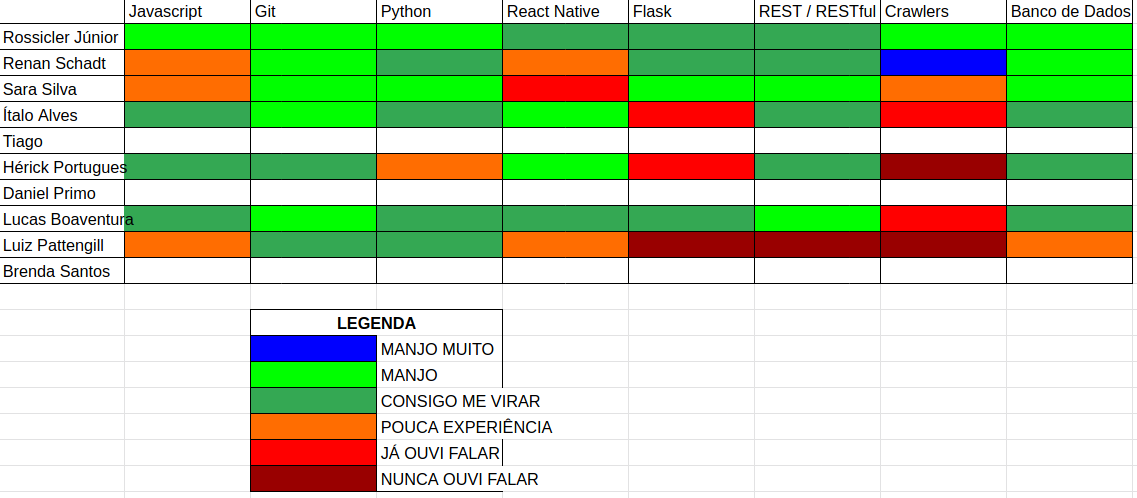
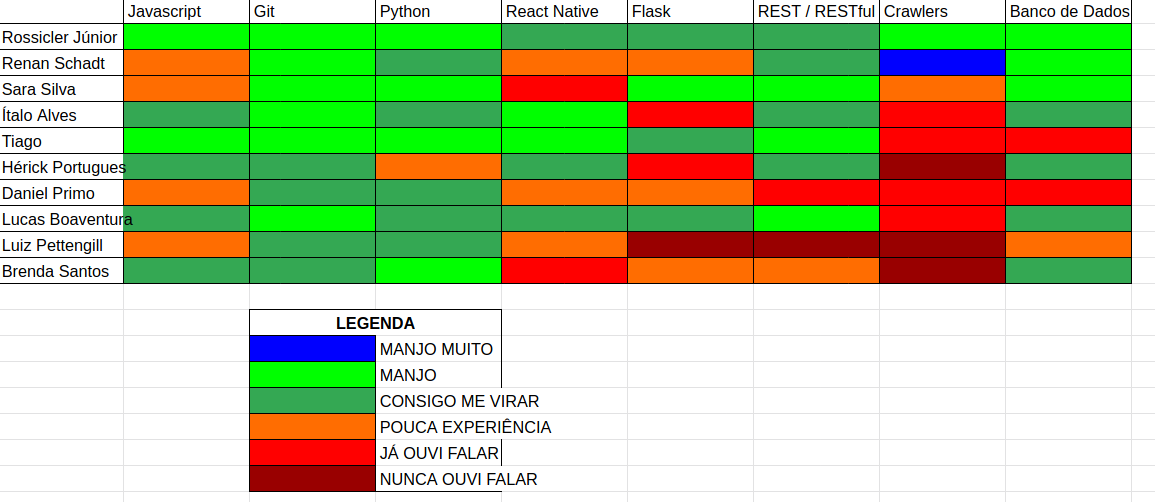
Added scrum master review and images for the metrics.

diff --git a/stay-safe/docs/sprints/sprint-1/sprint1-review.md b/stay-safe/docs/sprints/sprint-1/sprint1-review.md
@@ -1,12 +1,13 @@
 # Análise e Retrospectiva
 
 ## 1. Visão Geral
-**Número da Sprint:** 0  
-**Data de Início:** 18/08/2020  
-**Data de Término:** 22/08/2020  
-**Duração:** 4 dias  
-**Pontos Planejados:** 35 pontos  
-**Pontos Entregues:** 27 pontos  
+**Número da Sprint:** 1  
+**Data de Início:** 23/08/2020  
+**Data de Término:** 29/08/2020  
+**Duração:** 7 dias  
+**Pontos Planejados:** 68 pontos  
+**Pontos Entregues:** 60 pontos  
+**Dívida Técnica:** 8 pontos  
 **Membros Presentes:** Todos
 
 ## 2. Resultados
@@ -20,7 +21,7 @@
 **Status:** Concluído  
 3. **História:** [#11 - Definição de Arquitetura](https://github.com/fga-eps-mds/2020.1-stay-safe-docs/issues/11)  
 **Responsáveis:** Sara   
-**Pontuação:** 8 
+**Pontuação:** 8  
 **Status:** Concluído   
 4. **História:** [#12 - Treinamento de Flask](https://github.com/fga-eps-mds/2020.1-stay-safe-docs/issues/12)  
 **Responsáveis:** Sara  
@@ -32,44 +33,48 @@
 **Status:** Concluído  
 6. **História:** [#15 - Definição da Licença](https://github.com/fga-eps-mds/2020.1-stay-safe-docs/issues/15)  
 **Responsáveis:** Renan, Rossicler, Sara    
-**Pontuação:** 2
+**Pontuação:** 2  
 **Status:** Concluído  
 7. **História:** [#16 - Criação do Product Backlog](https://github.com/fga-eps-mds/2020.1-stay-safe-docs/issues/16)  
 **Responsáveis:** Renan, Rossicler, Sara   
-**Pontuação:** 13
+**Pontuação:** 13  
 **Status:** Concluído  
 8. **História:** [#17 - Termo de Abertura do Projeto](https://github.com/fga-eps-mds/2020.1-stay-safe-docs/issues/17)  
 **Responsáveis:** Renan, Rossicler, Sara     
-**Pontuação:** 8
+**Pontuação:** 8  
 **Status:** Não Concluído  
 9. **História:** [#18 - Documentação de Sprints](https://github.com/fga-eps-mds/2020.1-stay-safe-docs/issues/18)  
 **Responsáveis:** Renan     
-**Pontuação:** 3
+**Pontuação:** 3  
 **Status:** Concluído  
 10. **História:** [#19 - Documento de Arquitetura](https://github.com/fga-eps-mds/2020.1-stay-safe-docs/issues/19)  
 **Responsáveis:** Lucas, Brenda, Luiz, Tiago, Hérick  
-**Pontuação:** 8
+**Pontuação:** 8  
 **Status:** Concluído 
 
 ## 3. Velocity
-![Velocity Sprint 0](../../images/sprints/sprint-0/Velocity-Sprint0.png "Velocity Sprint 0")
+![Velocity Sprint 1](../../images/sprints/sprint-1/Velocity-Sprint1.png "Velocity Sprint 1")
 
 ## 4. Burndown
-![Burndown Sprint 0](../../images/sprints/sprint-0/Burndown-Sprint0.png "Burndown Sprint 0")
+![Burndown Sprint 1](../../images/sprints/sprint-1/Burndown-Sprint1.png "Burndown Sprint 1")
 
-## 5. Retrospectiva
+## 5. Histórico de Contribuição
+![Commit History Sprint 1](../../images/sprints/sprint-1/Commit-Sprint1.png "Commit History Sprint 1")
+
+## 6. Retrospectiva
 ### Pontos Positivos:
-* Uma sprint bem produtiva
-* Hilmer nos elogiou
-* A interação do grupo está muito boa e cumprimos quase tudo que foi proposto em bons prazos, sem ser mt em cima da hora
-* O time ta ajudando bastante, sempre que alguem precisa de ajuda :) (time solicito)
+* Sprint produtiva, muitos pontos entregues
+* Elogio do professor
+* Interação do grupo está melhorando
+* Atividades entregues dentro do prazo, permitindo revisão e correções com mais calma
+* Time solícito na hora de ajudar os colegas
 * Capacidade da equipe de contornar uma situação adversa
 
 ### Pontos Negativos:
-* O momento ainda é tenso, alguns membros e/ou familiares tiveram problemas pessoais ou de saúde e não estavam tão bem pra participar
+* Alguns membros e/ou familiares tiveram problemas pessoais ou de saúde e não puderam ser tão participativos
 * Adaptação ao EAD
-* Reuniões extensas
-* Alguns membros ainda não estão adaptados ao ritmo de reunião e daily
+* Reuniões extensas e repetitivas
+* Alguns membros estão esquecendo das dailies
 * Issues criadas tardiamente
 
 ### Melhorias:
@@ -77,31 +82,27 @@
 * Configurar bot para lembretes de dailies
 * Criar issues na reunião
 
+## 7. Quadro de Conhecimentos
+![Quadro de Conhecimentos Sprint 1](../../images/sprints/sprint-1/QuadroConhecimento-Sprint1.png "Quadro de Conhecimentos Sprint 1")
 
-## 6. Quadro de Conhecimentos
-Março de 2020:
-![Quadro de Conhecimentos em Março de 2020](../../images/sprints/sprint-0/QuadroConhecimento-Antigo.png "Quadro de Conhecimentos em Março de 2020")
-Agosto de 2020:
-![Quadro de Conhecimentos em Agosto de 2020](../../images/sprints/sprint-0/QuadroConhecimento-Sprint0.png "Quadro de Conhecimentos em Agosto de 2020")
-
-## 7. Análise do Scrum Master
+## 8. Análise do Scrum Master
 ### Time
-Primeira sprint do projeto marcada pelas turbulências da pandemia, apesar desta a equipe está bem unida, animada para matéria e empolgada com o tema escolhido. 
+Segunda sprint do projeto marcada pela melhora na interação geral entre os membros e alta produtividade da equipe. 
 
-A maioria dos pontos negativos citados na retrospectiva foge do controle da equipe, só um deles é passível de intervenção (visão de produto não homogênea entre os membros) e para isso uma nova reunião para tratar sobre o produto será marcada com objetivo de coletar mais ideias, propor novas funcionalidades e alinhar a visão de todos os membros a respeito do software que será construído.
+Durante a sprint dois membros tiveram problemas de saúde, um deles conseguiu levar suas atividades em um ritmo mais lento e o outro precisou da semana para se recuperar completamente. O time respondeu bem a essa situação e a grande maioria das atividades planejadas foram entregues.
 
 ### Métricas
-Em decorrência da pandemia e do semestre interrompido o **Burndown** da Sprint 0 compreende do mês de Março até o mês Agosto, o que não reflete a realidade, visto que na maior parte desse tempo o projeto estava parado.
+O **Burndown** da Sprint 1 já mostra algumas entregas no meio da sprint, ainda não é o ideal que a equipe espera atingir, mas houve uma melhora significativa em relação a Sprint 0.
 
-O **Velocity** atual da equipe é de 27 pontos, a expectativa é que esse número aumente nas próximas sprints.
+O **Velocity** atual da equipe é de 43.5 pontos com duas sprints fechadas e 87 pontos entregues no total. Esperamos que esse número aumente e se estabilize em torno de 50 pontos.
 
-A inclusão de dois **Quadros de Conhecimento** foi feita para mostrar a evolução de alguns membros durante a pandemia.
+O **Quadro de Conhecimento** da Sprint 1 mostra uma  pequena evolução de conhecimento dos membros em React Native e Flask. Frameworks que foram apresentados em treinamentos durante a sprint.
 
 ### Histórias
-Os treinamentos foram realizados e MDS apresentou mini projetos usando as tecnologias em questão, mostrando compromentimento em aprender as ferramentas que serão usadas ao longo da disciplina.
+Os três grandes objetivos da sprint foram definir e documentar a arquitetura e criar o backlog do produto. Estes foram concluídos com sucesso, mas acabaram tomando mais tempo que o esperado e impedindo a equipe de finalizar o **Termo de Abertura do Projeto**, que será levado como dívida técnica para Sprint 2.
 
-O **Documento de Visão** está em estado de revisão, uma falha de comunicação entre EPS e MDS fez com que o Pull Request fosse aberto tardiamente, algumas alterações foram solicitadas e estão sendo feitas no documento, a nova previsão de entrega é no início da Sprint 1.
+A dívida técnica proveniente da Sprint 0 foi concluída ainda no começo da Sprint.
 
-O **Roadmap de Produto** elaborado antes da pandemia foi revisitado e adaptado para as datas atualizadas do semestre. Novas alterações deverão ser feitas na próxima sprint em decorrência da elaboração e priorização do **Product Backlog**.
+Os treinamentos explicaram o fluxo básico dos frameworks e contaram com participação tanto de EPS como MDS.
 
 As demais tarefas são auto-explicativas e ocorreram sem intercorrências.
